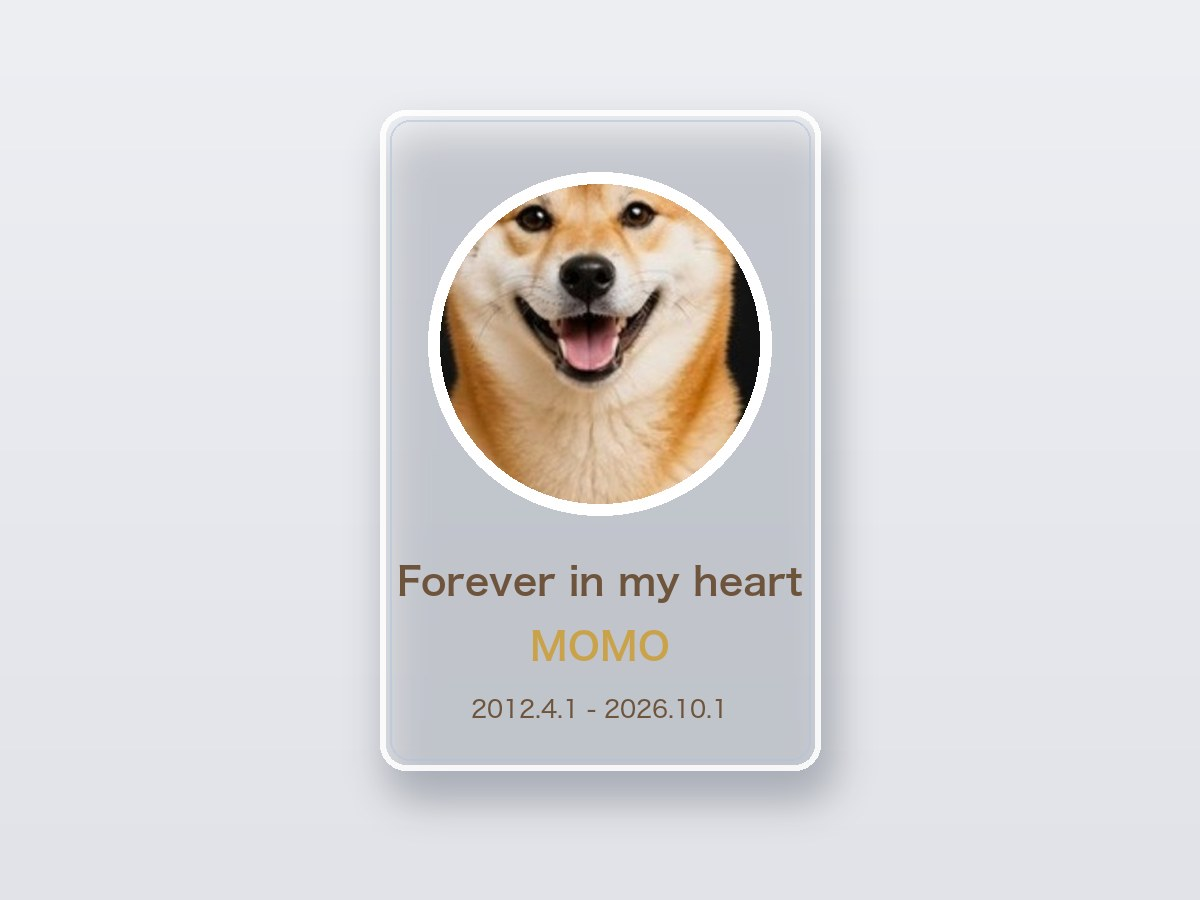
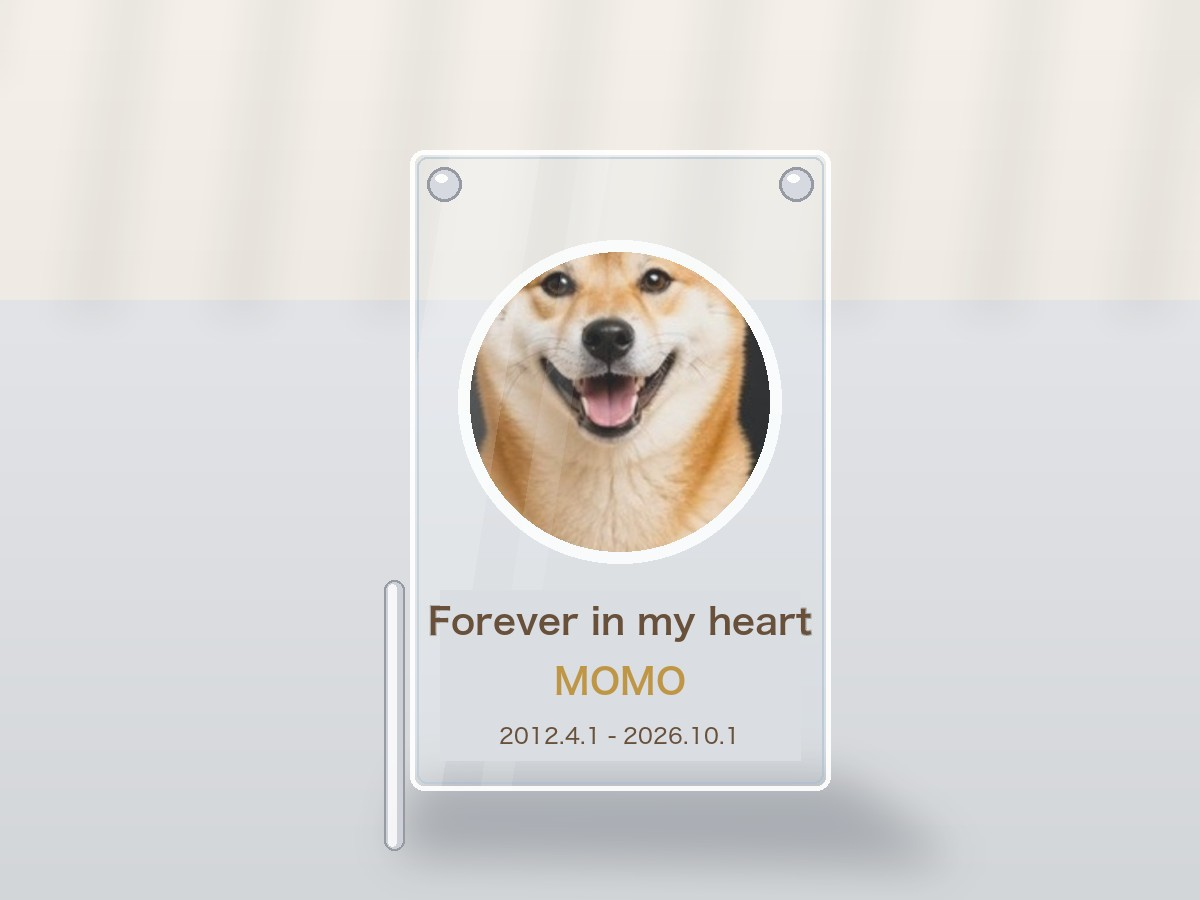
メモリアルボードの見本画像を、透明アクリル（金属ネジ・スタンド）の縦長に変更

Changed region(s): [[0.3083, 0.1244, 0.8017, 0.9956]]

diff --git a/js/config.js b/js/config.js
@@ -86,7 +86,7 @@ window.LICO_SHOP = {
       id: "memorial", kind: "none", series: "PET MEMORIAL SERIES",
       name: "ペットのメモリアルボード（アクリル）", short: "ペットのメモリアル", price: 5500,
       lead: "虹の橋をわたった、大切な家族の写真を、アクリルボードにのこします。\nテンプレートをえらんで、お名前やメッセージを入れるだけ。お部屋にそっと飾れます。",
-      images: ["img/memorial.jpg?v=1120b"], optionLabel: "",
+      images: ["img/memorial.jpg?v=1120c"], optionLabel: "",
       points: ["透明なアクリル製のメモリアルボード（横10×縦15cm・立てかけて飾れます）", "メモリアル向けのテンプレートから選べます", "お名前・日付・メッセージを入れられます"],
       print: { w: 1000, h: 1500, shape: "round", r: 40, base: "clear", baseLabel: "透明のアクリルのまま（印刷しない）" },
       note: "アクリルは透明なので、写真を置かない部分は透けて見えます。背景をえらぶと、全面にプリントされます。"
